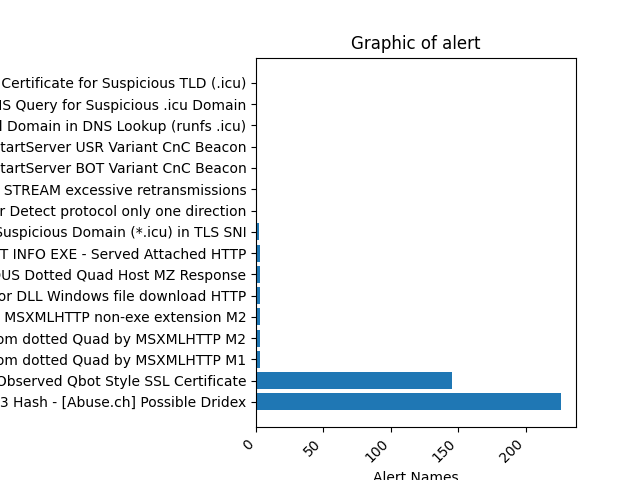
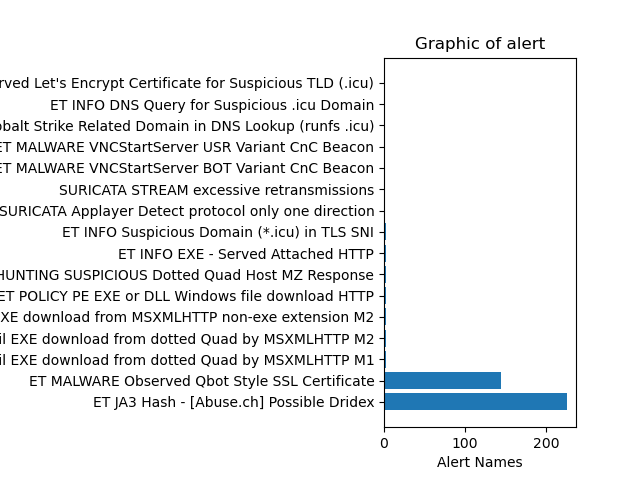
finished

diff --git a/tools/plot.py b/tools/plot.py
@@ -1,6 +1,6 @@
 import os
 from matplotlib import pyplot as plt
-from tools import directory_helper
+
 
 class plotting:
 
@@ -9,7 +9,7 @@ class plotting:
         This function will plot all datas that are available, and save with the name csv_name.png
         '''
 
-        os.chdir('..\\Visualization')
+        os.chdir('..//Visualization')
 
         for number, data in enumerate(datas_for_plot):
             plt.barh(data[0],data[1])
@@ -17,14 +17,13 @@ class plotting:
             plt.xlabel('Alert Names')
             plt.ylabel('Quantity')
 
-            if data[1][0] > 400:
+            if data[1][0] > 300:
                 plt.subplots_adjust(left=0.5)
                 plt.xticks(rotation=45, ha='right')
                 plt.grid(True)
 
             else:
-                plt.subplots_adjust(left=0.4)
-                plt.xticks(rotation=45, ha='right')
+                plt.subplots_adjust(left=0.6)
 
             plt.savefig(csv_name[number].split('.')[0])
             plt.show()
